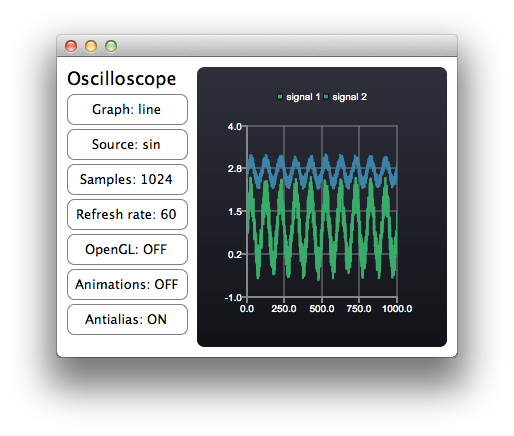
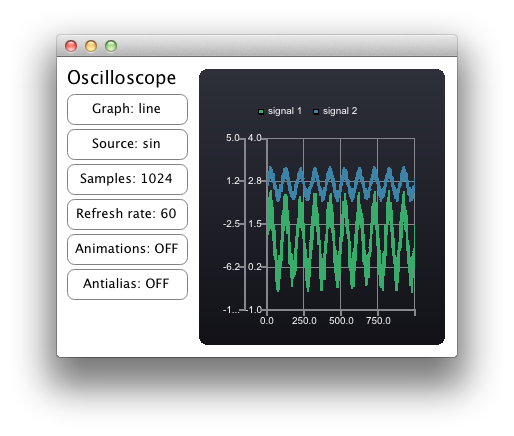
Removed OpenGL button in QML Oscilloscope demo

diff --git a/demos/qmloscilloscope/qml/qmloscilloscope/ControlPanel.qml b/demos/qmloscilloscope/qml/qmloscilloscope/ControlPanel.qml
@@ -22,7 +22,6 @@ import QtQuick 1.0
 
 Column {
     spacing: 5
-    signal openGLEnabled(bool enabled)
     signal animationsEnabled(bool enabled)
     signal seriesTypeChanged(string type)
     signal refreshRateChanged(variant rate);
@@ -68,13 +67,6 @@ Column {
         items: [1, 24, 60, 100]
         currentSelection: 2
         onSelectionChanged: refreshRateChanged(items[currentSelection]);
-    }
-
-    MultiButton {
-        text: "OpenGL: "
-        items: ["OFF", "ON"]
-        currentSelection: 0
-        onSelectionChanged: openGLEnabled(currentSelection == 1);
     }
 
     MultiButton {

diff --git a/demos/qmloscilloscope/qml/qmloscilloscope/main.qml b/demos/qmloscilloscope/qml/qmloscilloscope/main.qml
@@ -42,7 +42,6 @@ Rectangle {
             else
                 dataSource.generateData(1, signalCount, sampleCount);
         }
-        onOpenGLEnabled: dataSource.setOpenGL(enabled);
         onAnimationsEnabled: scopeView.setAnimations(enabled);
         onSeriesTypeChanged: scopeView.changeSeriesType(type);
         onRefreshRateChanged: scopeView.changeRefreshRate(rate);

diff --git a/demos/qmloscilloscope/datasource.cpp b/demos/qmloscilloscope/datasource.cpp
@@ -87,14 +87,6 @@ void DataSource::generateData(int type, int rowCount, int colCount)
     }
 }
 
-void DataSource::setOpenGL(bool enabled)
-{
-    if (enabled)
-        m_appViewer->setViewport(new QGLWidget());
-    else
-        m_appViewer->setViewport(0);
-}
-
 void DataSource::setAntialiasing(bool enabled)
 {
     m_appViewer->setRenderHint(QPainter::Antialiasing, enabled);

diff --git a/demos/qmloscilloscope/datasource.h b/demos/qmloscilloscope/datasource.h
@@ -39,7 +39,6 @@ signals:
 public slots:
     void generateData(int type, int rowCount, int colCount);
     void update(QAbstractSeries *series);
-    void setOpenGL(bool enabled);
     void setAntialiasing(bool enabled);
 
 private:
